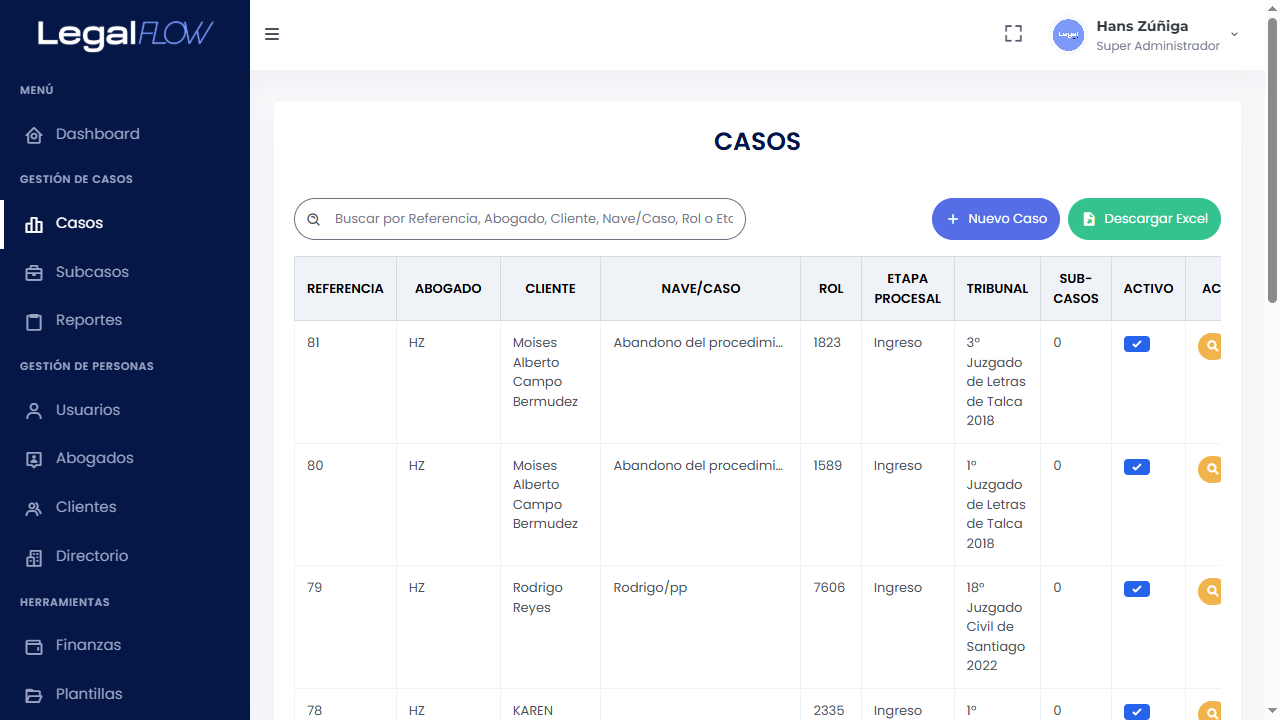
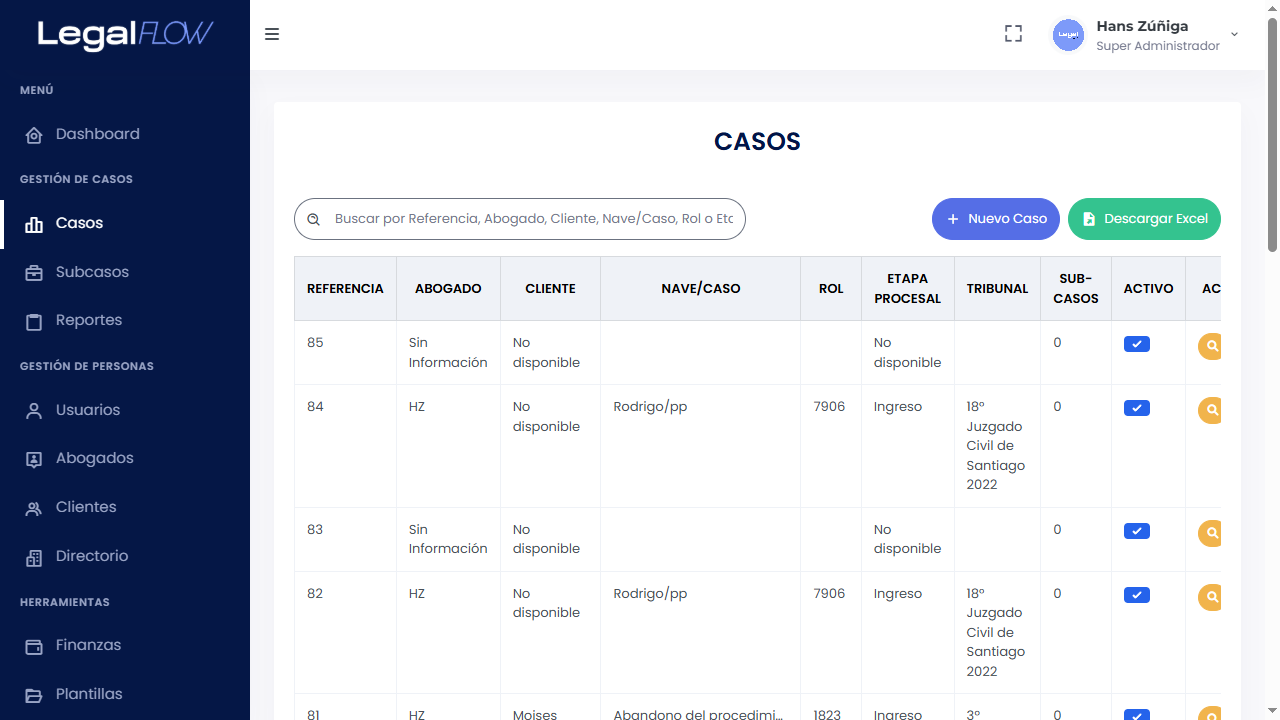
Agrega llenar formulario y crear caso en legalflow

diff --git a/legalflow_rpa.js b/legalflow_rpa.js
@@ -1,5 +1,6 @@
 require('dotenv').config();
 const { chromium } = require('playwright');
+const fs = require('fs');
 
 (async () => {
   const browser = await chromium.launch({ headless: false });
@@ -19,19 +20,66 @@ const { chromium } = require('playwright');
   await page.click('a[href*="/casos"]');
   await page.waitForLoadState('networkidle');
 
-  // Diagnóstico (ver dónde está realmente)
   console.log("URL actual después del clic:", page.url());
   await page.screenshot({ path: 'casos_debug.png' });
 
-  // Esperar botón "Nuevo Caso" como indicador de carga correcta
+  // Esperar botón "Nuevo Caso"
   await page.waitForSelector('a[href*="/casos/create"]', { timeout: 15000 });
   console.log('✅ Sección Casos abierta');
 
   // ABRIR NUEVO CASO
   await page.locator('a[href*="/casos/create"]').click();
   await page.waitForLoadState('networkidle');
-  await page.waitForSelector('form');
+  await page.waitForSelector('#referencia_caso', { timeout: 30000 });
   console.log('✅ Formulario de Nuevo Caso abierto');
 
-  await browser.close();
+  // LEER DATOS DEL JSON
+  const requestData = JSON.parse(fs.readFileSync('assets/request.json', 'utf-8'));
+
+  // LLENAR FORMULARIO
+  await page.fill('#referencia_caso', requestData.ReferenciaCliente);
+  await page.fill('#descripcion_caso', requestData.NaveDescripcionCaso);
+  await page.fill('#asunto_caso', requestData.AsuntoCaratula);
+  await page.fill('#referencia_demandante', requestData.ReferenciaDemandante);
+  await page.fill('#fechai', requestData.FechaInicio);
+  await page.selectOption('#abogado_principal', { label: requestData.AbogadoPrincipal });
+
+  if (requestData.TipoCobro.CobroFijo) await page.check('#cobrofijo');
+  if (requestData.TipoCobro.CobroPorcentaje) await page.check('#cobroporciento');
+
+  await page.fill('#fechait', requestData.FechaIngresoTribunal || '');
+  await page.fill('#bill_input', requestData.BillOfLading);
+  await page.fill('#cuantia', requestData.Cuantia.toString());
+  await page.fill('#observaciones', requestData.Observaciones || '');
+
+  // Datos PJUD
+  await page.selectOption('#competencia', { label: requestData.DatosPJUD.Competencia });
+  await page.waitForTimeout(1000);
+  await page.selectOption('#corte', { label: requestData.DatosPJUD.Corte });
+  await page.waitForTimeout(1000);
+  await page.selectOption('#tribunal_id', { label: requestData.DatosPJUD.Tribunal });
+  await page.fill('#rol_pjud', requestData.DatosPJUD.Rol);
+  await page.fill('#anio_pjud', requestData.DatosPJUD.Ano.toString());
+
+  await page.selectOption('#etapa_procesal', { label: requestData.EtapaProcesal });
+  await page.selectOption('#estado_caso', { label: requestData.EstadoCaso });
+  await page.selectOption('#estado_casoi', { label: 'Tramitación' });
+  await page.selectOption('#tipo_caso', { label: requestData.TipoCaso });
+
+  // GUARDAR
+  await page.click('#btnguardar');
+  await page.waitForURL('**/edit/**', { timeout: 30000 });
+  console.log('✅ Formulario guardado y redirigido a la página de edición');
+
+  // CAPTURAR Y MOSTRAR LA URL DEL NUEVO CASO
+  const caseUrl = page.url();
+  console.log('\n🧭 URL del nuevo caso creado:\n👉', caseUrl, '\n');
+
+  // Mantener abierto el navegador
+  console.log('🔓 Navegador permanecerá abierto para inspección manual.');
+  console.log('Presiona CTRL + C para detener el script cuando termines.\n');
+
+  // Mantener la sesión viva
+  await page.waitForTimeout(99999999);
+
 })();

diff --git a/prompt/5_legalflow.md b/prompt/5_legalflow.md
@@ -1,5 +1,4 @@
-Tengo el script legalflow_rpa.js
-Tengo que rellenar los siguientes campos y hacer un envío del formulario en continuar:
+Tengo el script legalflow_rpa.js, quiero iterarlo ya que debo rellenar los siguientes campos y hacer un envío del formulario en continuar:
 
 <form action="https://demo1.legalflow.cl/casos" id="createUsersForm" method="POST" enctype="multipart/form-data">
             <input type="hidden" name="_token" value="bosoztaQNzeC9uMSZ0hQ8cbRfT3FT65yrxPRSuJr" autocomplete="off">                        <ul class="nav nav-tabs custom-tabs custom-tab mb-5" id="myTab" role="tablist">

diff --git a/prompt/6_correcion.md b/prompt/6_correcion.md
@@ -1,0 +1,2 @@
+El flujo está bien, pero no avanzó, debió crear algo como https://demo1.legalflow.cl/casos/edit/83.
+Se debe presionar el botón continuar que se encuentra en el prompt 5.
